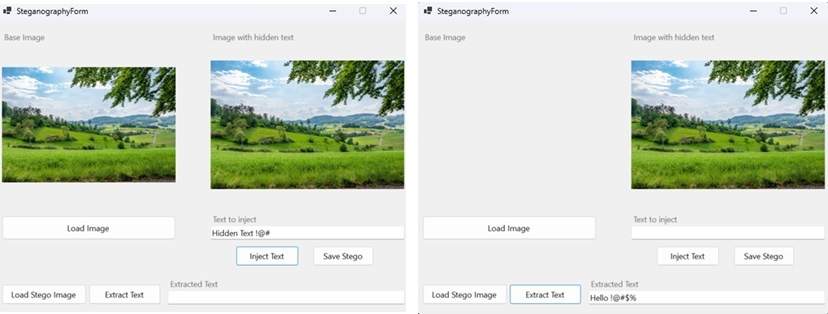
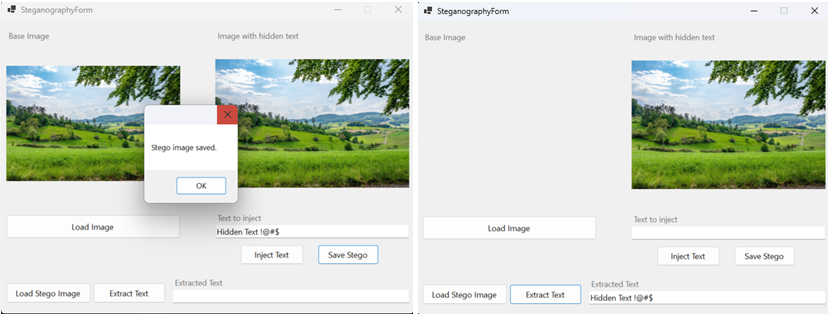
Image Updated

diff --git a/MoSteganography/Form1.Designer.cs b/MoSteganography/Form1.Designer.cs
@@ -51,7 +51,7 @@
             button1.Name = "button1";
             button1.Size = new Size(391, 53);
             button1.TabIndex = 0;
-            button1.Text = "Load Image";
+            button1.Text = "Load Image (1)";
             button1.UseVisualStyleBackColor = true;
             button1.Click += btnLoadImage_Click;
             // 
@@ -93,7 +93,7 @@
             btnHideText.Name = "btnHideText";
             btnHideText.Size = new Size(141, 44);
             btnHideText.TabIndex = 5;
-            btnHideText.Text = "Inject Text";
+            btnHideText.Text = "Inject Text (2)";
             btnHideText.UseVisualStyleBackColor = true;
             btnHideText.Click += btnHideText_Click;
             // 
@@ -103,7 +103,7 @@
             btnSaveStego.Name = "btnSaveStego";
             btnSaveStego.Size = new Size(136, 44);
             btnSaveStego.TabIndex = 6;
-            btnSaveStego.Text = "Save Stego";
+            btnSaveStego.Text = "Save Stego (3)";
             btnSaveStego.UseVisualStyleBackColor = true;
             btnSaveStego.Click += btnSaveStego_Click;
             // 
@@ -113,7 +113,7 @@
             btnExtractText.Name = "btnExtractText";
             btnExtractText.Size = new Size(161, 45);
             btnExtractText.TabIndex = 7;
-            btnExtractText.Text = "Extract Text";
+            btnExtractText.Text = "Extract Text (2)";
             btnExtractText.UseVisualStyleBackColor = true;
             btnExtractText.Click += btnExtractText_Click;
             // 
@@ -123,7 +123,7 @@
             btnLoadStegoImage.Name = "btnLoadStegoImage";
             btnLoadStegoImage.Size = new Size(190, 45);
             btnLoadStegoImage.TabIndex = 8;
-            btnLoadStegoImage.Text = "Load Stego Image";
+            btnLoadStegoImage.Text = "Load Stego Image (1)";
             btnLoadStegoImage.UseVisualStyleBackColor = true;
             btnLoadStegoImage.Click += btnLoadStegoImage_Click;
             // 
